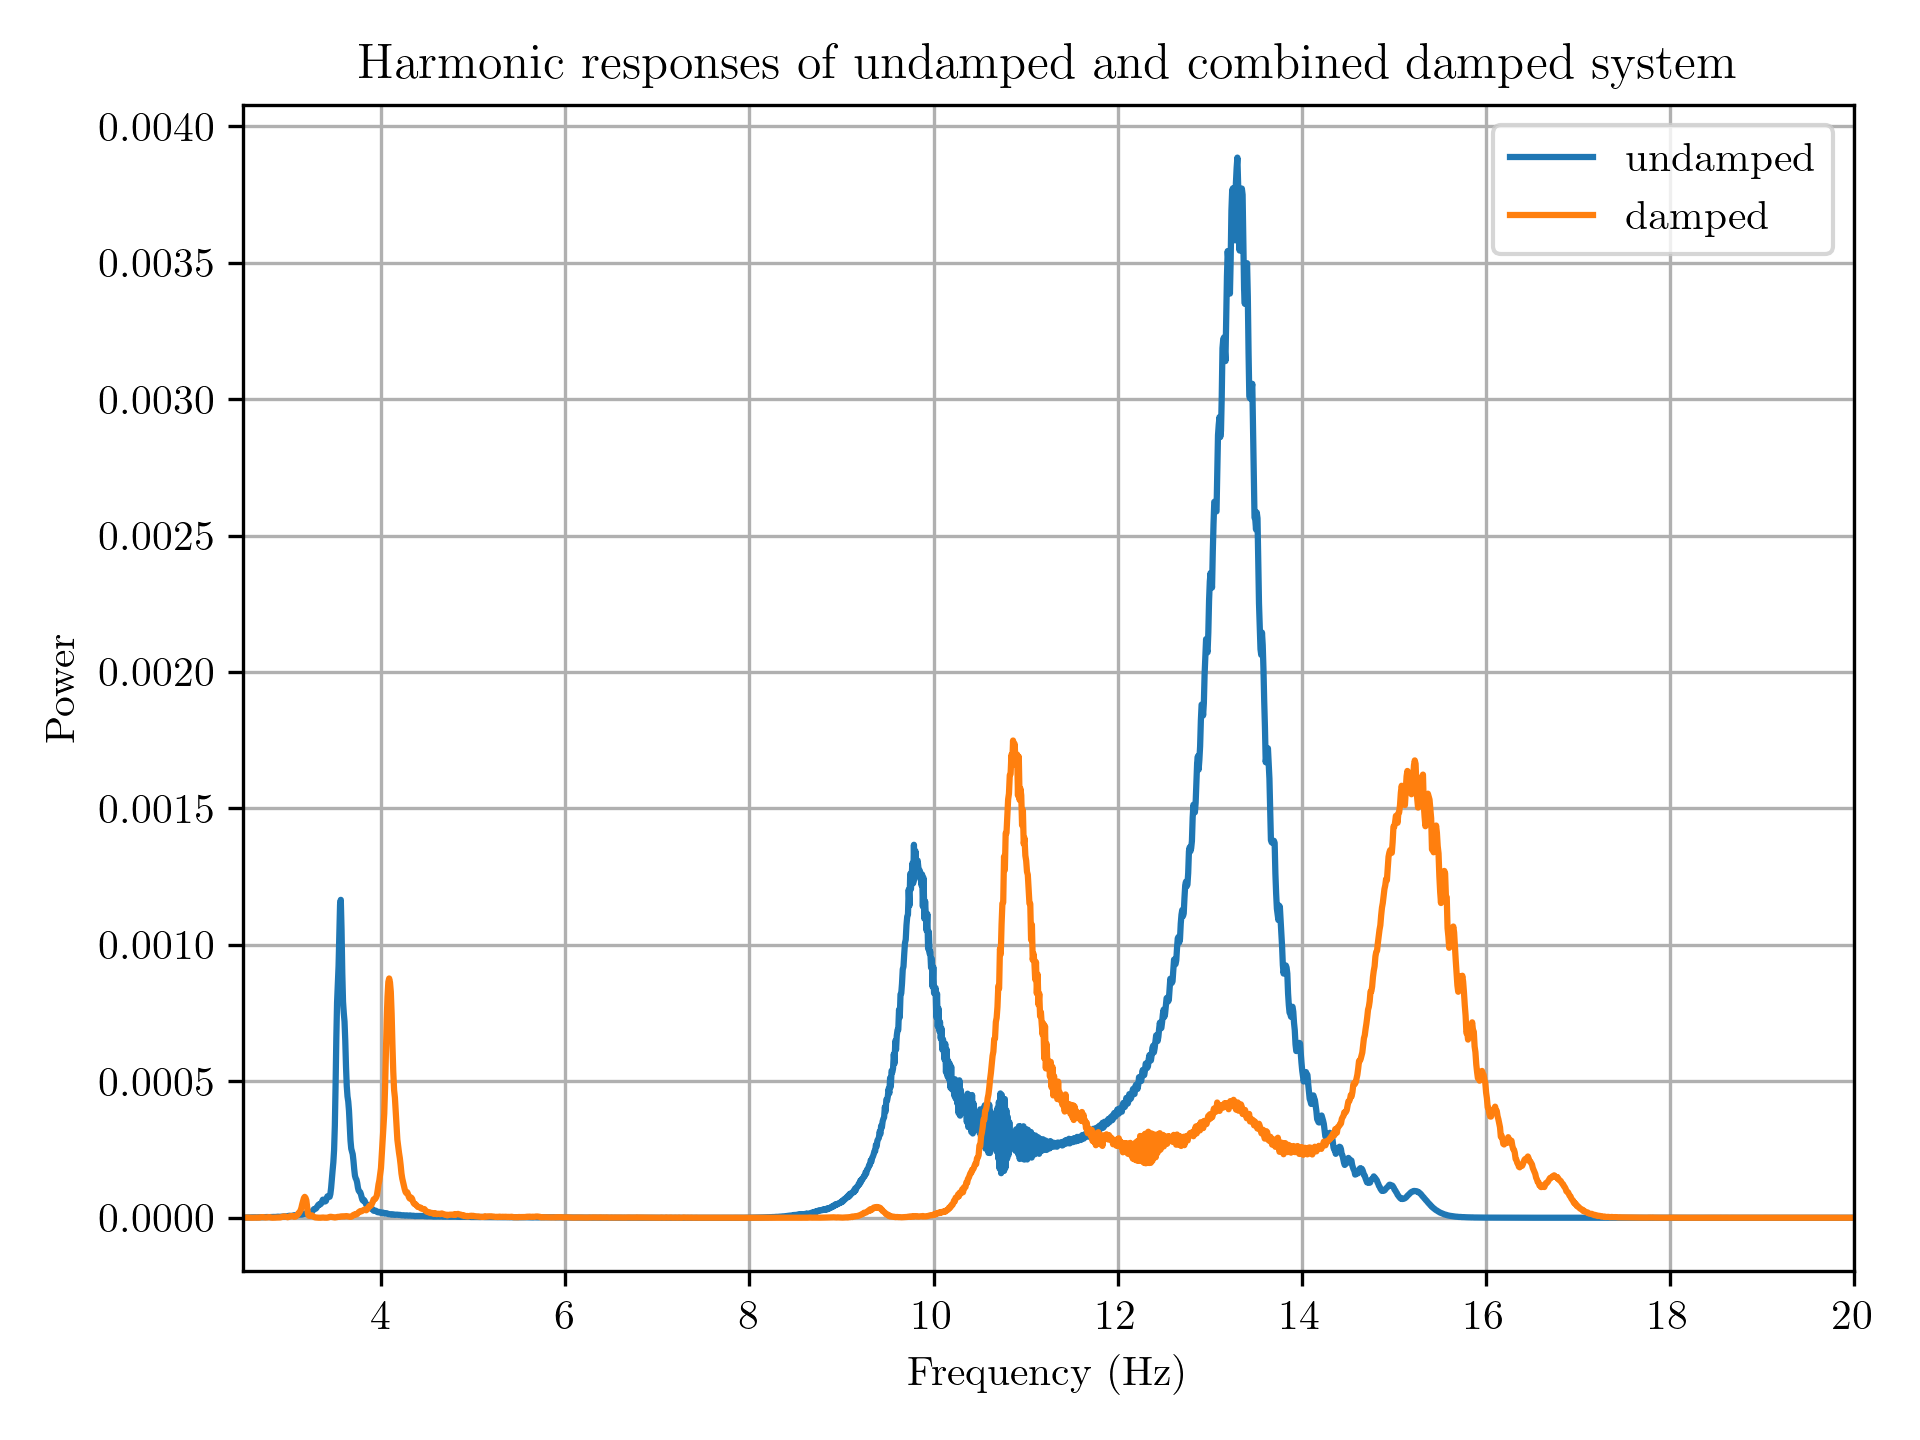
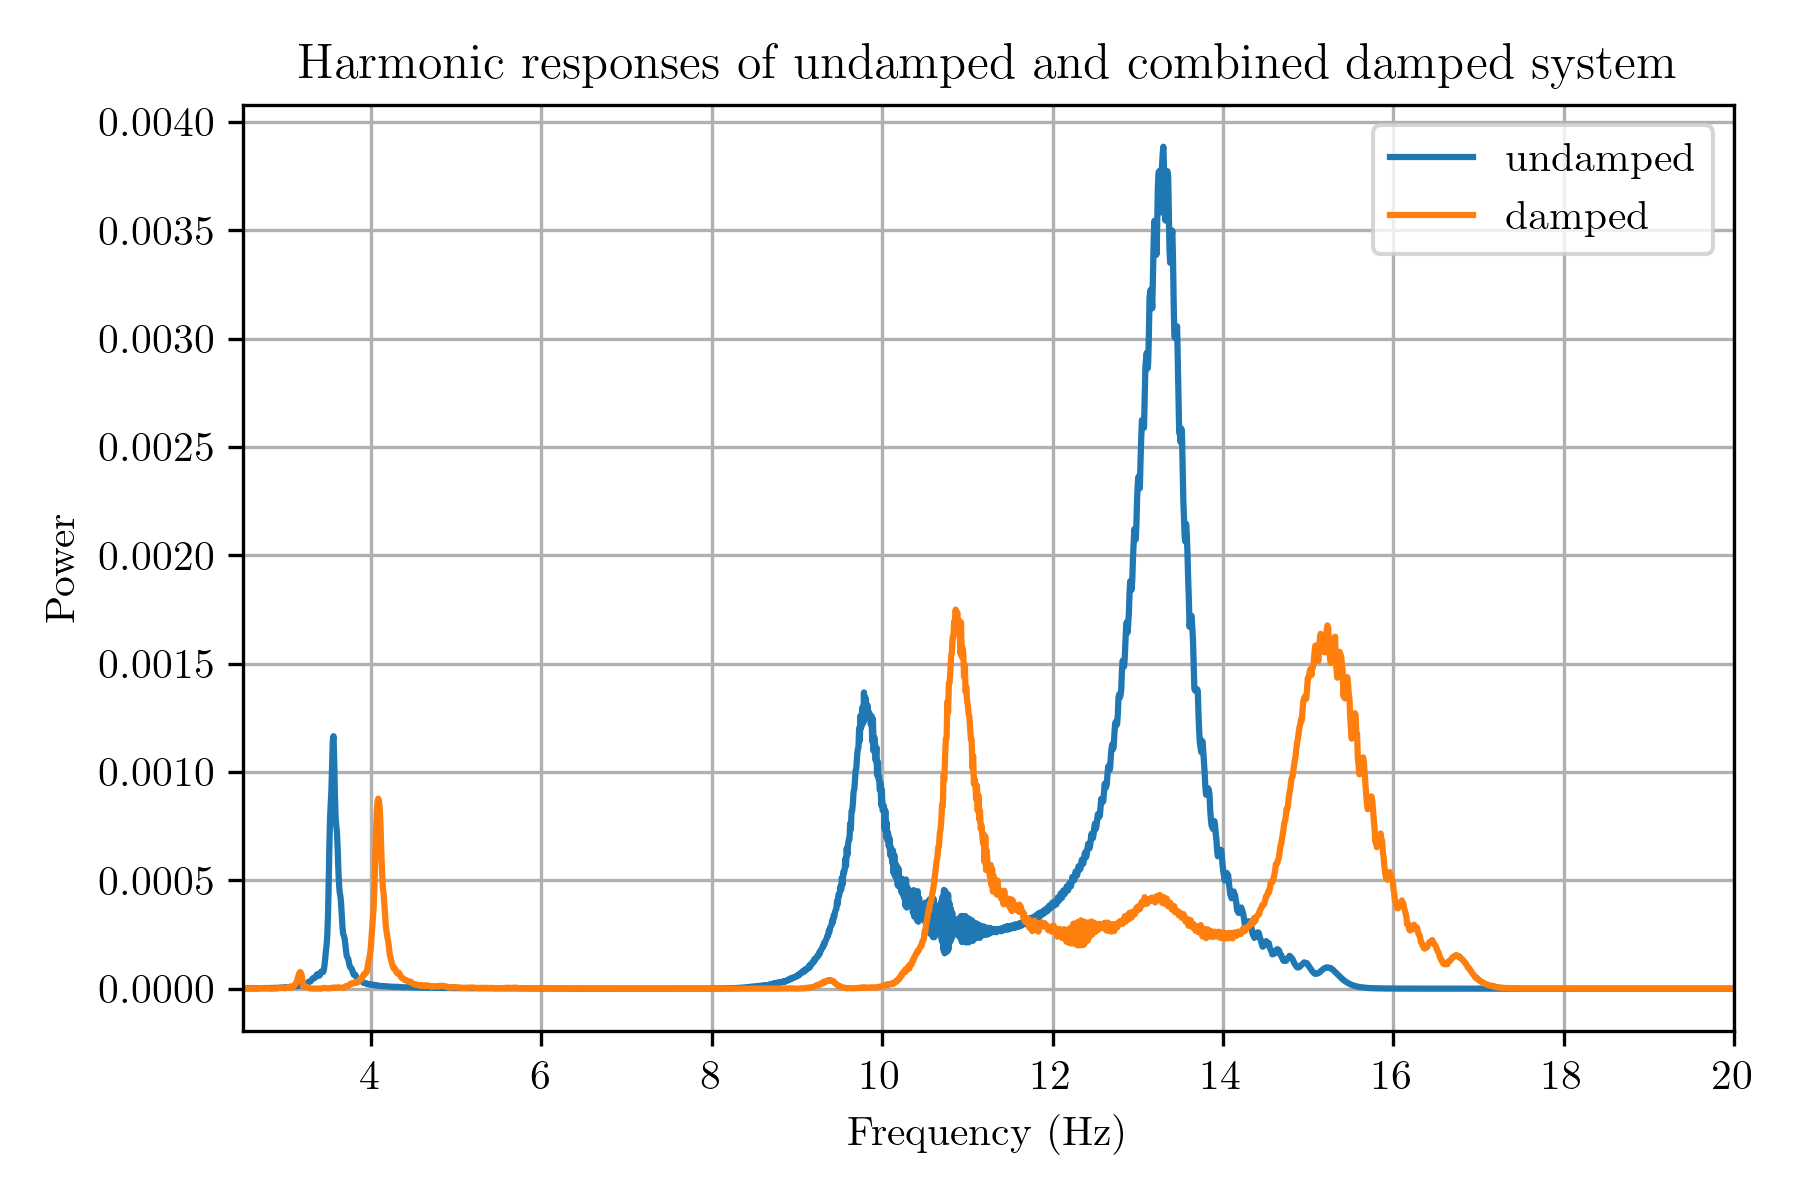
progress

diff --git a/IB/Extended Coursework/report.tex b/IB/Extended Coursework/report.tex
@@ -1,5 +1,5 @@
 
-\documentclass[9pt]{article}
+\documentclass[8pt]{article}
 
 \usepackage[utf8]{inputenc}
 
@@ -35,13 +35,13 @@
 % context
 
 Modern structures are designed to withstand a range of distributed static loads however they are vulnerable to harmonic excitations such as earthquakes.
-The response of a structure to a harmonic excitation is determined by the resonant frequencies and mode shapes of the structure.
+
 
 \subsection{Aims}
 
 \begin{itemize}
 \item To determine the resonant frequencies of a 3 degree of freedom structure
-\item To determine the properties of three seperate tuned mass dampers to reduce the three resonant responses of the structure
+\item To determine the properties of three seperate tuned mass dampers to reduce the three resonant response of the structure
 \item To investigate the combined effect of the tuned mass dampers on the resonant response of the structure
 \end{itemize}
 
@@ -71,10 +71,11 @@ of a cantilever assumes small deflections and the deflection of the tuned mass d
 The method used for tuning was to incrementally change the stiffness of the spring by changing its length until the response 
 at the resonant frequency was at a minimum. 
 
-A single mass of 50g was added to the cantilever spring and the structures response was tested with the mass at the top and slightly below.
-In the 1st mode the response was worse with the mass further down and so two more 50g masses were added until the resonant response decreased.
+A single mass of 50g was added to the end of the cantilever spring and the structures response was tested with the mass at the top and 1cm below the top.
+In the 1st mode the response was worse when the mass was positioned 1cm from the top and so two more 50g masses were added until the resonant response decreased.
 This was done such that the optimal length lies on the cantilever for fine tuning. It can also be seen in equation (3) that increasing $m$
 decreases the optimal length of the cantilever such that the tuned mass dampers resonant frequency matches that of the building.
+The other modes did not require this as a single 50g mass was sufficient to 
 
 The damping coefficient was effectively unchanged as this is caused by the viscous friction of the air on the mass.
 
@@ -96,9 +97,31 @@ The damping coefficient was effectively unchanged as this is caused by the visco
 %interpret results and comment on anomalies
 
 Figure \ref{fig:modes} shows the resonant response of each mode before and after the addition of a tuned mass damper.
-In all cases the 
+In all cases the response at the resonant frequency is reduced by the addition of the tuned mass damper. It can also be seen that the
+response slightly above and below the resonant frequency increases. This is the expected behaviour from adding a tuned mass damper.
+However, in modes 1 and 2 the new resonant response is greater than the original response.
 
+This is likely due to a variety of reasons:
+\begin{itemize}
+    \item The tuned mass dampers were not accurately tuned to the resonant frequency of the structure. Our tuning method was not optimal as the length of the cantilever was only tuned to the nearest 5mm.
+            This was done to reduce the time taken to tune the dampers as the tuning method was already very time consuming.
+    \item The damping of the masses is very small as the air friction is negligible. This means that the two residual resonant responses are much higher than they would be if the absorbers had damping.
+\end{itemize}
+
+Figure \ref{fig:combined_full_sweep} shows the resonant response of the structure before and after the addition of the 3 individually tuned mass dampers.
+Second order effects are seen in the response of the damped structure.
+
+\section{Improvements}
+
+The tuning method could be improved by 
+\begin{itemize}
+    \item Tune the length of the cantilever to a higher precision using callipers.
+    \item Using a more accurate model of the tuned mass damper
+\end{itemize}
 
 \section{Conclusion}
+
+From the experimental data gathered it can be concluded that tuned mass dampers can be used to reduce the amplitude of resonant responses of a structure.
+However, tuning such dampers to the resonant frequency of the structure is not trivial and requires a lot of experimentation.
 
 \end{document}
